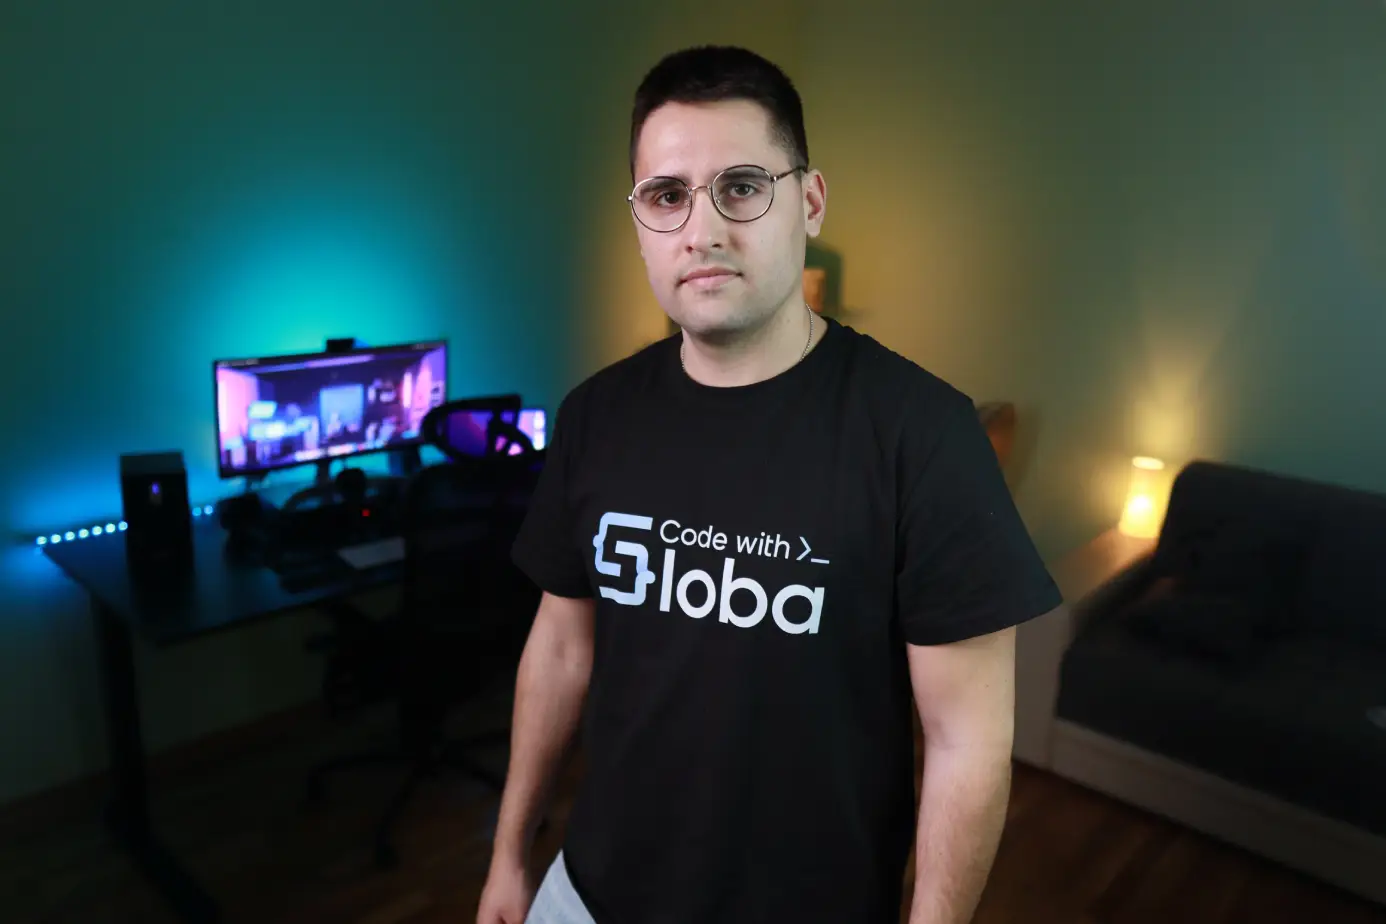
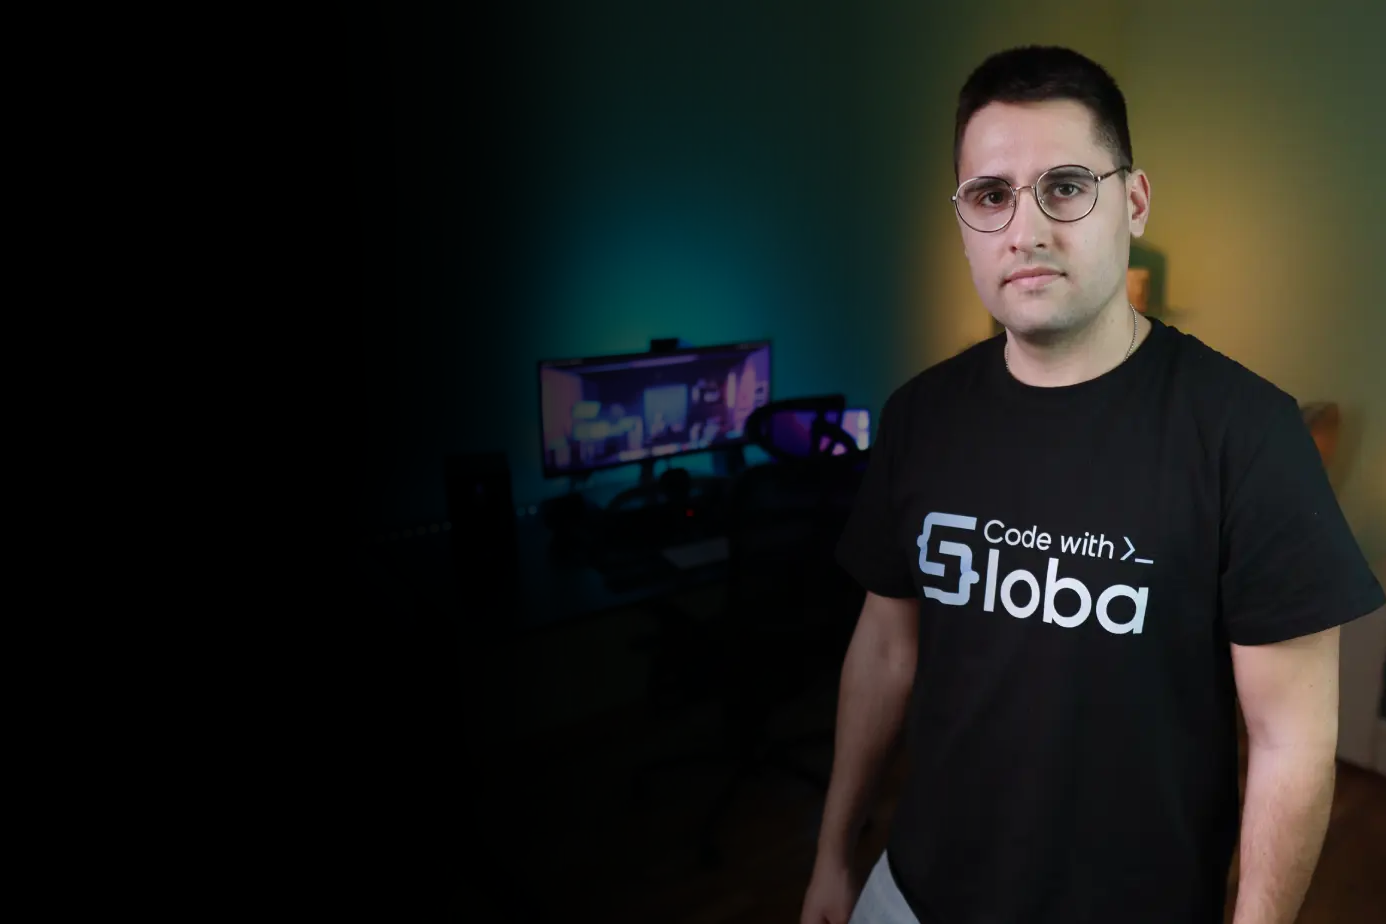
add black gradient to jumbotron

diff --git a/components/home.module.scss b/components/home.module.scss
@@ -248,7 +248,7 @@
 @media screen and (max-width: 992px) {
   .jumbotron {
     &Wrapper {
-      background-position: center 0px;
+      background-position: 60% 0px;
       background-size: auto 100%;
       background-attachment: unset;
     }
